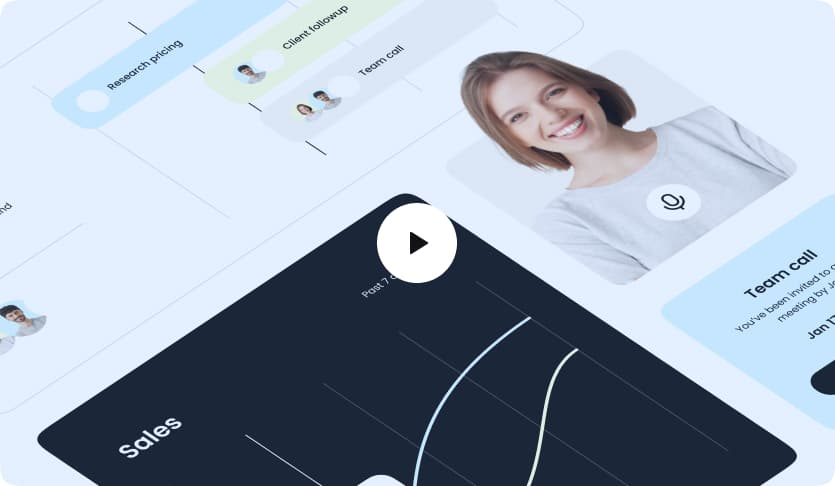
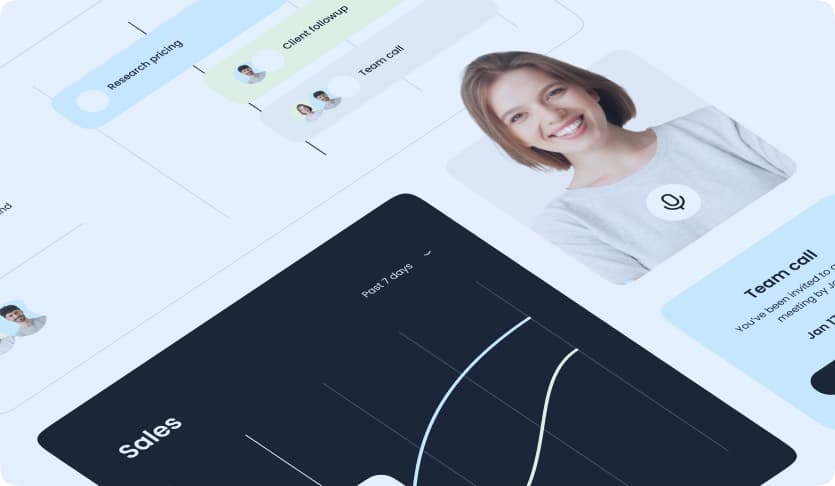
hero + demo sections

Changed region(s): [[0.4359, 0.4012, 0.5605, 0.5864]]

diff --git a/growth_landing/css/styles.css b/growth_landing/css/styles.css
@@ -5,7 +5,13 @@
   --mainLightTextClr: #ffffff;
   --mainBgClr: #ffffff;
   --secondBgClr: #131316;
-  --accentClr: #4891ff;
+  --primaryBtnClr: #4891ff;
+  --primaryBtnClrHov: #1570f9;
+  --primaryBtnText: #ffffff;
+  --secondaryBtnClr: #f5f5f5;
+  --secondaryBtnHov: #4891ff;
+  --secondaryBtnTextHov: #ffffff;
+  --linkHover: #1570f9;
 }
 
 /* body */
@@ -29,6 +35,7 @@ h6 {
 ul {
   margin: 0;
   padding-left: 0;
+  list-style: none;
 }
 
 img {
@@ -41,9 +48,183 @@ a {
   color: inherit;
 }
 
+button {
+  cursor: pointer;
+}
+
 /* general */
 .container {
   width: 1278px;
   padding: 0 15px;
+  margin: 0 auto;
+}
+
+.btn {
+  display: inline-block;
+  padding: 12px 24px;
+  background-color: var(--secondaryBtnClr);
+  border: none;
+  border-radius: 12px;
+  font-weight: 500;
+}
+
+.primary-btn {
+  background-color: var(--primaryBtnClr);
+  color: var(--primaryBtnText);
+}
+
+.primary-btn:hover,
+.primary-btn:focus {
+  background-color: var(--primaryBtnClrHov);
+}
+
+.secondary-btn {
+  background-color: var(--secondaryBtnClr);
+}
+
+.secondary-btn:hover,
+.secondary-btn:focus {
+  background-color: var(--secondaryBtnHov);
+  color: var(--secondaryBtnTextHov);
+}
+
+/* header */
+.header {
+  padding: 20px 0;
+}
+
+.header-container {
+  display: flex;
+  align-items: center;
+  justify-content: space-between;
+}
+
+.header-logo {
+  margin-right: 732px;
+  font-weight: 600;
+  font-size: 28px;
+  line-height: 0.9;
+}
+
+.header-logo::after {
+  content: "";
+  display: inline-block;
+  margin-left: 5px;
+  width: 17px;
+  height: 13px;
+  background-image: url(../images/logo-line.svg);
+  vertical-align: text-top;
+}
+
+.header-nav {
+  display: flex;
+  row-gap: 732px;
+}
+
+.header-list {
+  display: flex;
+  align-items: center;
+}
+
+.header-item:not(:last-child) {
+  margin-right: 40px;
+}
+
+.header-link {
+  font-weight: 500;
+  line-height: 1.5;
+}
+
+.header-link:hover {
+  color: var(--linkHover);
+}
+
+.header-btn {
+  display: inline-block;
+  padding: 12px 24px;
+  border: none;
+  border-radius: 12px;
+  font-weight: 500;
+  cursor: pointer;
+}
+
+/* hero */
+.hero-section {
+  padding: 72px 0;
+}
+
+.hero-title {
+  margin-bottom: 24px;
+  width: 824px;
+  font-weight: 500;
+  font-size: 64px;
+  line-height: 1.1;
+  letter-spacing: -2px;
+  text-shadow: 0px 4px 4px rgba(0, 0, 0, 0.25);
+}
+
+.hero-text {
+  margin-bottom: 40px;
+  width: 611px;
+  font-size: 20px;
+}
+
+.header-btn-wrapper {
+  display: inline-flex;
+  gap: 16px;
+}
+
+.hero-book-btn {
+  display: inline-flex;
+  align-items: center;
+  gap: 10px;
+}
+
+.hero-icon {
+  width: 18px;
+  height: 22px;
+  fill: currentColor;
+}
+
+/* demo */
+
+.player-section {
+  background-color: var(--secondBgClr);
+  padding: 96px 0;
+}
+
+.player-title {
+  margin: 0 auto 58px;
+  width: 767px;
+  font-weight: 500;
+  font-size: 48px;
+  line-height: 1.2;
+  letter-spacing: -1px;
+  color: #ffffff;
+  text-align: center;
+}
+
+.player-img {
+  margin: 0 auto 64px;
+}
+
+.player-controller {
+  display: inline-flex;
+  justify-content: center;
+  align-items: center;
+  width: 80px;
+  height: 80px;
+  background-color: #ffffff;
+  border-radius: 50%;
+  border: none;
+}
+
+.player-controller-icon {
+  width: 20px;
+  height: 24px;
+}
+
+.demo-btn {
+  display: block;
   margin: 0 auto;
 }

diff --git a/growth_landing/index.html b/growth_landing/index.html
@@ -40,30 +40,53 @@
             </li>
           </ul>
         </nav>
-        <button class="header-btn" type="button">Log in</button>
+        <button class="header-btn secondary-btn" type="button">Log in</button>
       </div>
     </header>
     <main>
       <!-- HERO SECTION -->
-      <section>
-        <div class="container">
-          <h1 class="hero-header">
+      <section class="hero-section">
+        <div class="container hero-container">
+          <h1 class="hero-title">
             A powerful solution to grow your startup. Fast!
           </h1>
-          <p>
+          <p class="hero-text">
             Organise, collaborate, and track progress seamlessly with our
             one-stop-shop startup growth tool.
           </p>
-          <button type="button">Get started</button>
-          <button type="button">Book a demo</button>
+          <div class="header-btn-wrapper">
+            <button class="hero-start-btn primary-btn btn" type="button">
+              Get started
+            </button>
+            <button class="hero-book-btn secondary-btn btn" type="button">
+              <svg class="hero-icon">
+                <use href="./images/sprite.svg#icon-webcam"></use>
+              </svg>
+              Book a demo
+            </button>
+          </div>
           <img src="./images/hero.png"/ alt="services">
         </div>
       </section>
-      <!-- VIDEO SECTION -->
-      <section>
-        <div class="container">
-          <h2>See how it works and get started in less than 2 minutes</h2>
-          <img src="./images/video.jpg" alt="video-preview" />
+      <!-- PLAYER SECTION -->
+      <section class="player-section">
+        <div class="container player-container">
+          <h2 class="player-title">
+            See how it works and get started in less than 2 minutes
+          </h2>
+          <img
+            class="player-img"
+            src="./images/video.jpg"
+            alt="video-preview"
+          />
+          <button class="player-controller">
+            <svg class="player-controller-icon">
+              <use href="./images/sprite.svg#icon-play"></use>
+            </svg>
+          </button>
+          <button type="button" class="demo-btn primary-btn btn">
+            Get started
+          </button>
         </div>
       </section>
       <!-- TESTIMONIALS SECTION -->
@@ -98,5 +121,6 @@
       </section>
     </main>
     <footer><div class="container"></div></footer>
+    <script src="./js/index.js"></script>
   </body>
 </html>

diff --git a/growth_landing/js/index.js b/growth_landing/js/index.js
@@ -1,0 +1,4 @@
+const btn = document.querySelector(".header-btn");
+btn.addEventListener("click", () => {
+  console.log("I am working");
+});
